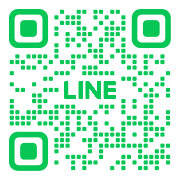
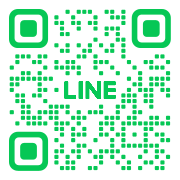
微修正

diff --git a/frontend/src/api.ts b/frontend/src/api.ts
@@ -87,7 +87,7 @@ export class GasApiService {
                     "買付金額（万円）": data.offerPrice,
                     "手付金（万円）": data.deposit,
                     "購入方法": data.loan,
-                    "他条件": data.conditions,
+                    "他条件": data.conditions.join(', '),
                     "物件番号": data.property.no,
                     "物件住所": data.property.address,
                     "物件種別": data.property.type,

diff --git a/frontend/src/components/KaitsukeCompleteModal.tsx b/frontend/src/components/KaitsukeCompleteModal.tsx
@@ -32,7 +32,7 @@ export const KaitsukeCompleteModal = ({ isOpen, onClose }: KaitsukeCompleteModal
             閉じる
           </button>
           <button
-            onClick={() => window.open("https://lin.ee/Y8UqyPI", "_blank")}
+            onClick={() => window.open("https://lin.ee/eSUpcG5", "_blank")}
             className="px-6 py-2 bg-green-500 text-white rounded hover:bg-green-600"
           >
             LINE登録する

diff --git a/frontend/src/components/NaikenCompleteModal.tsx b/frontend/src/components/NaikenCompleteModal.tsx
@@ -32,7 +32,7 @@ export const NaikenCompleteModal = ({ isOpen, onClose }: NaikenCompleteModalProp
             閉じる
           </button>
           <button
-            onClick={() => window.open("https://lin.ee/Y8UqyPI", "_blank")}
+            onClick={() => window.open("https://lin.ee/eSUpcG5", "_blank")}
             className="px-6 py-2 bg-green-500 text-white rounded hover:bg-green-600"
           >
             LINE登録する

diff --git a/frontend/src/app/modal-test/page.tsx b/frontend/src/app/modal-test/page.tsx
@@ -1,0 +1,15 @@
+"use client";
+
+import { KaitsukeCompleteModal } from "@/components/KaitsukeCompleteModal";
+
+export default function ModalTest() {
+  return (
+    <div>
+      <h1>Modal Test</h1>
+      <KaitsukeCompleteModal
+        isOpen={true}
+        onClose={() => {}}
+      />
+    </div>
+  );
+}
